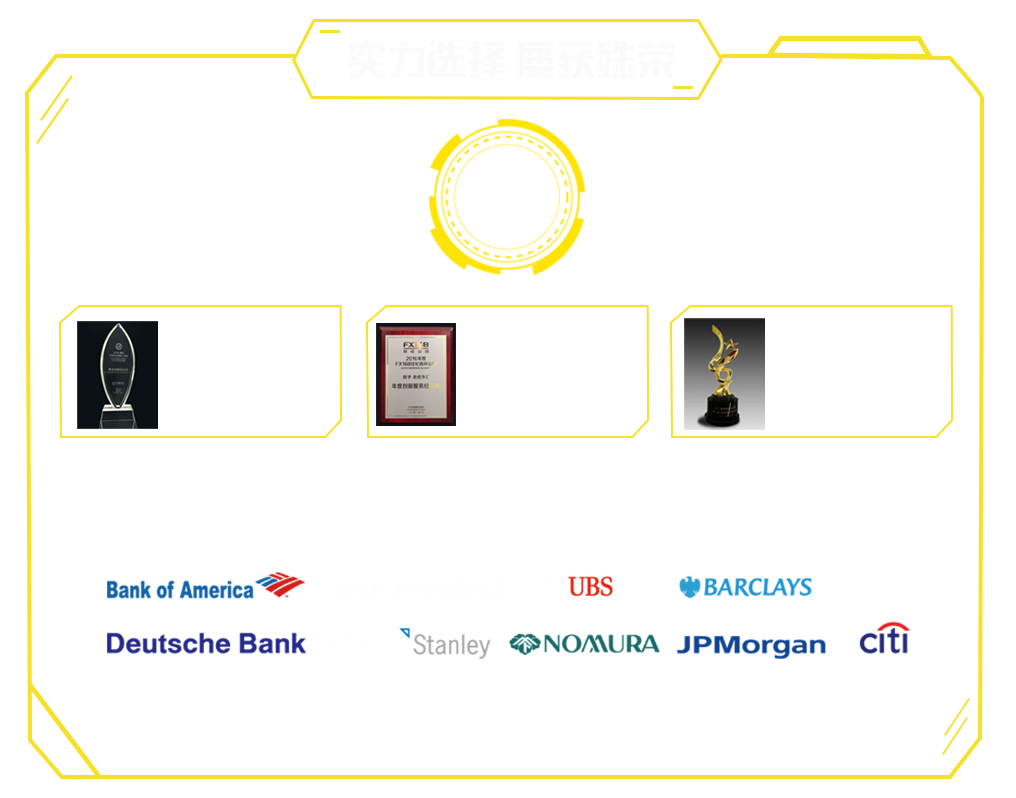
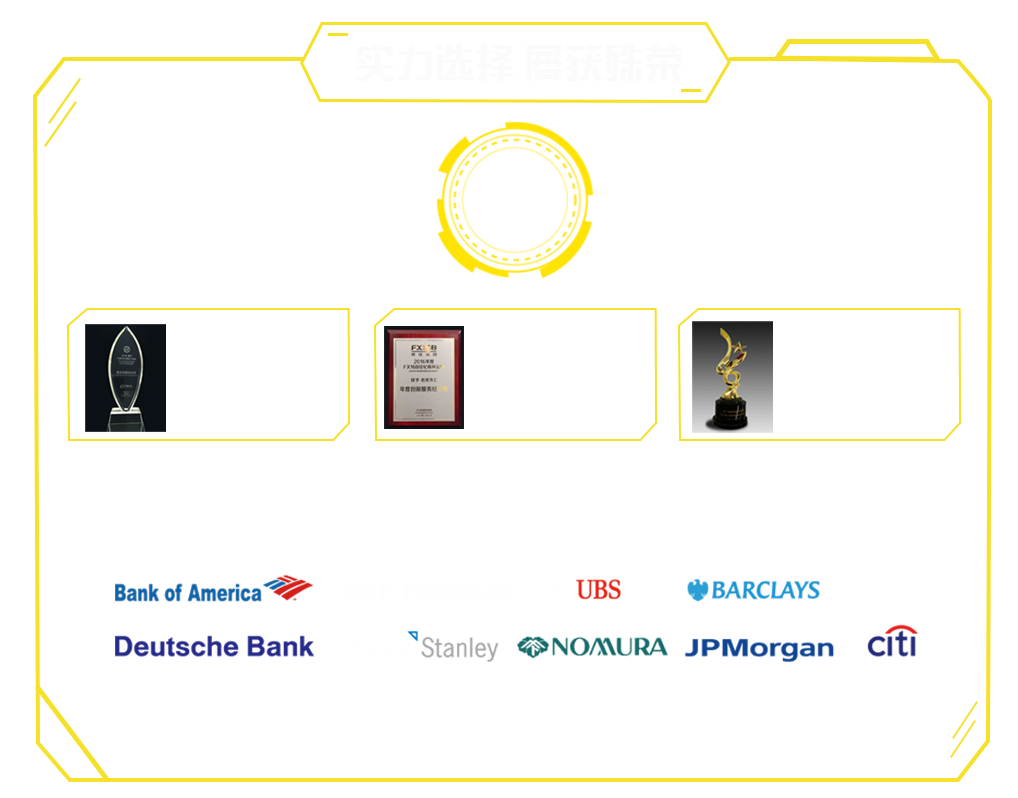
MOD:4in1活动修改

diff --git a/client/views/bd/4in1/4in1_h5.html b/client/views/bd/4in1/4in1_h5.html
@@ -63,7 +63,7 @@
                         <div class="rules">
                             <p>1. 用户需在红包指定兑现期限内完成对应条件并手动完成兑现，过期不能兑现；</p>
                             <p>2. 活动所列红包每个用户仅可领取一次，兑现金额将在执行兑现操作后入账且可支取；</p>
-                            <p>3. 本活动红包兑现条件中的交易手数仅适用于外汇、贵金属以及能源类产品，CFD类产品交易手数不计入统计范围；</p>
+                            <p>3. 本活动红包兑现条件中的交易手数仅适用于外汇、贵金属以及能源类产品，美元/人民币、CFD类产品交易手数不计入统计范围；</p>
                             <p>4. 本活动仅限活动开始后新注册用户，用户提取资金前，需完成完整个人信息的提交并通过审核；</p>
                             <p>5. 本活动允许EA但禁止EA剥头皮交易，违反规则的用户将取消参与本次活动的权利；</p>
                             <p>6.<%= lang.text('companyZhName')%>享有最终解释权，若有疑问，请咨询在线客服，或者拨打 <a class="connect_us" style="text-decoration: underline;" href="tel:<%= lang.text('telephone')%>"><%= lang.text('telephone')%></a>。

diff --git a/client/views/bd/4in1/4in1_web.html b/client/views/bd/4in1/4in1_web.html
@@ -21,7 +21,7 @@
                 <div class="bd_4in1_detail_con__text">
                     <p class="bd_4in1_detail_con__line">1. 用户需在红包指定兑现期限内完成对应条件并手动完成兑现，过期不能兑现；</p>
                     <p class="bd_4in1_detail_con__line">2. 活动所列红包每个用户仅可领取一次，兑现金额将在执行兑现操作后入账且可支取；</p>
-                    <p class="bd_4in1_detail_con__line">3. 本活动红包兑现条件中的交易手数仅适用于外汇、贵金属以及能源类产品，CFD类产品交易手数不计入统计范围；</p>
+                    <p class="bd_4in1_detail_con__line">3. 本活动红包兑现条件中的交易手数仅适用于外汇、贵金属以及能源类产品，美元/人民币、CFD类产品交易手数不计入统计范围；</p>
                     <p class="bd_4in1_detail_con__line">4. 本活动仅限活动开始后新注册用户，用户提取资金前，需完成完整个人信息的提交并通过审核；</p>
                     <p class="bd_4in1_detail_con__line">5. 本活动允许EA但禁止EA剥头皮交易，违反规则的用户将取消参与本次活动的权利；</p>
                     <p class="bd_4in1_detail_con__line">6.

diff --git a/client/scripts/bd/4in1/4in1_h5.js b/client/scripts/bd/4in1/4in1_h5.js
@@ -36,10 +36,6 @@
 				}
 			})
 
-			function activePage1() {
-				$('.section1').find('.text').addClass('animated flip')
-			}
-
 			$('#dowebok').fullpage({
 				navigation: true,
 				navigationPosition: "right",
@@ -55,7 +51,6 @@
 						$('.layui-m-layercont').css('padding', 0)
 						$.fn.fullpage.setAllowScrolling(false)
 					}
-					activePage1()
 					/*页面按钮事件*/
 					$(document.body).on("tap", function (e) {
 						var action = $(e.target).attr("data-action");
@@ -79,19 +74,7 @@
 				},
 				afterLoad: function (anchorLink, index) {
 					offsetAction(index)
-					if (index == 1) {
-						$('.section1').find('.text').addClass('animated zoomInDown')
-					}
-					else if (index == 2) {
-						$('.section2').find('.animation_item').each(function (index, item) {
-							(function (index, item) {
-								setTimeout(function () {
-									$(item).addClass('animated flip')
-								}, index * 200)
-							}(index, item))
-						})
-					}
-					else if (index == 3){
+					if (index == 3){
 						$('.section3').find('.animation_box').addClass('animated pulse')
 						.find('.animation_item').addClass('animated rollIn').end()
 					}

diff --git a/client/styles/bd/4in1/4in1_h5.scss b/client/styles/bd/4in1/4in1_h5.scss
@@ -13,6 +13,7 @@
         line-height: 1.5rem;
         font-size: 0.8rem;
         background: #fff;
+        border-radius: .5rem;
         a {
             color: #222;
         }
@@ -93,7 +94,7 @@
         }
         .reg_btn {
             width: 45%;
-            margin-top: 0.8rem;
+            margin-top: -1rem;
         }
     }
     .section1 {
@@ -110,10 +111,11 @@
     }
     .section2 {
         .animation_box {
-            width: 90%;
+            width: 81%;
+            height: 80%;
             background-image: url("/images/bd_4in1/h5_sec2_anibox.png");
             .animation_item {
-                width: 7.8rem;
+                width: 6.5rem;
                 &:nth-child(2n) {
                     margin-left: 0.8rem;
                 }
@@ -131,7 +133,7 @@
             background-image: url("/images/bd_4in1/h5_sec3_anibox.png");
             padding-top: 3.5rem;
             position: relative;
-            height: 72%;
+            height: 80%;
             width: 81%;
             margin-top: 14%;
             .text_logo {
